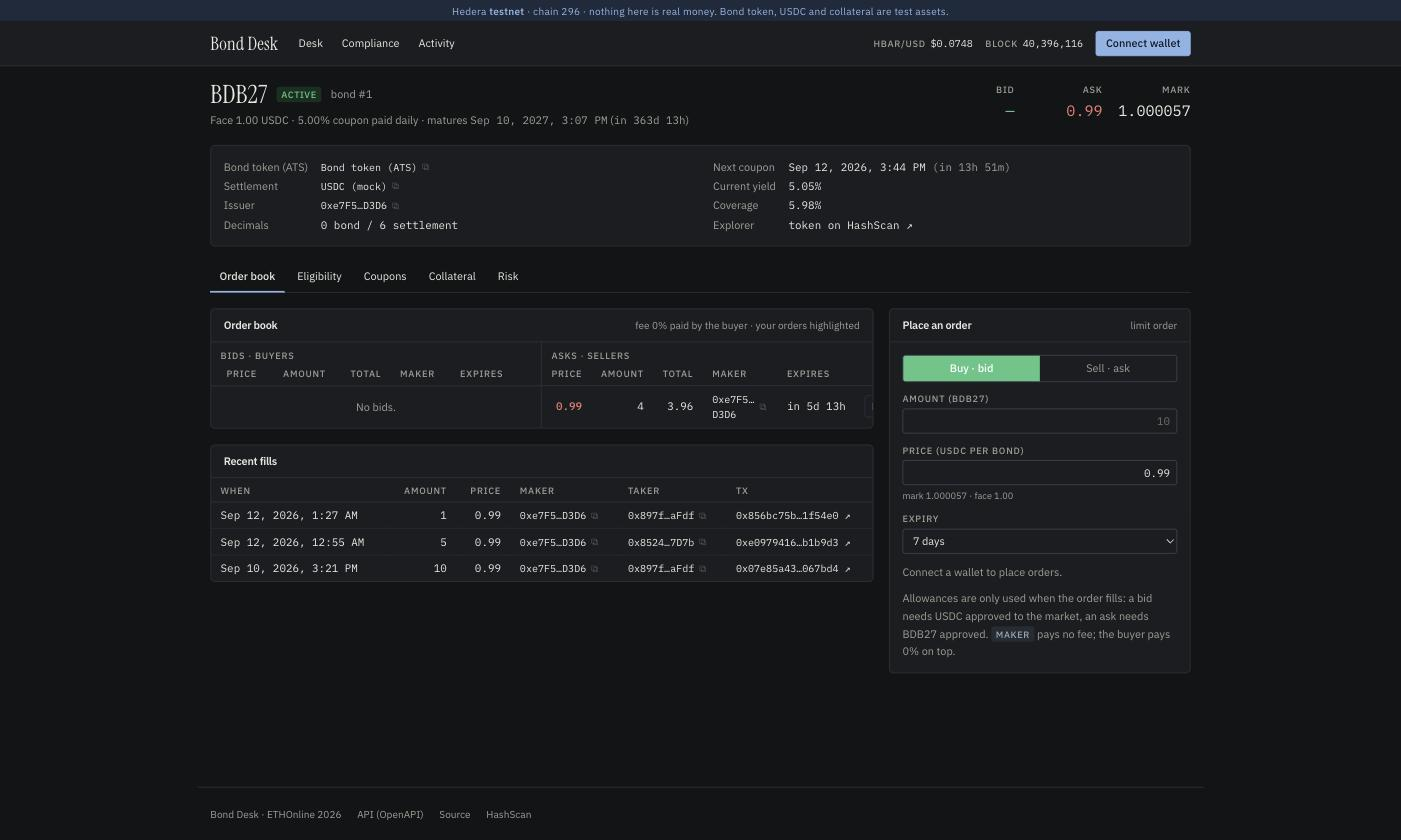
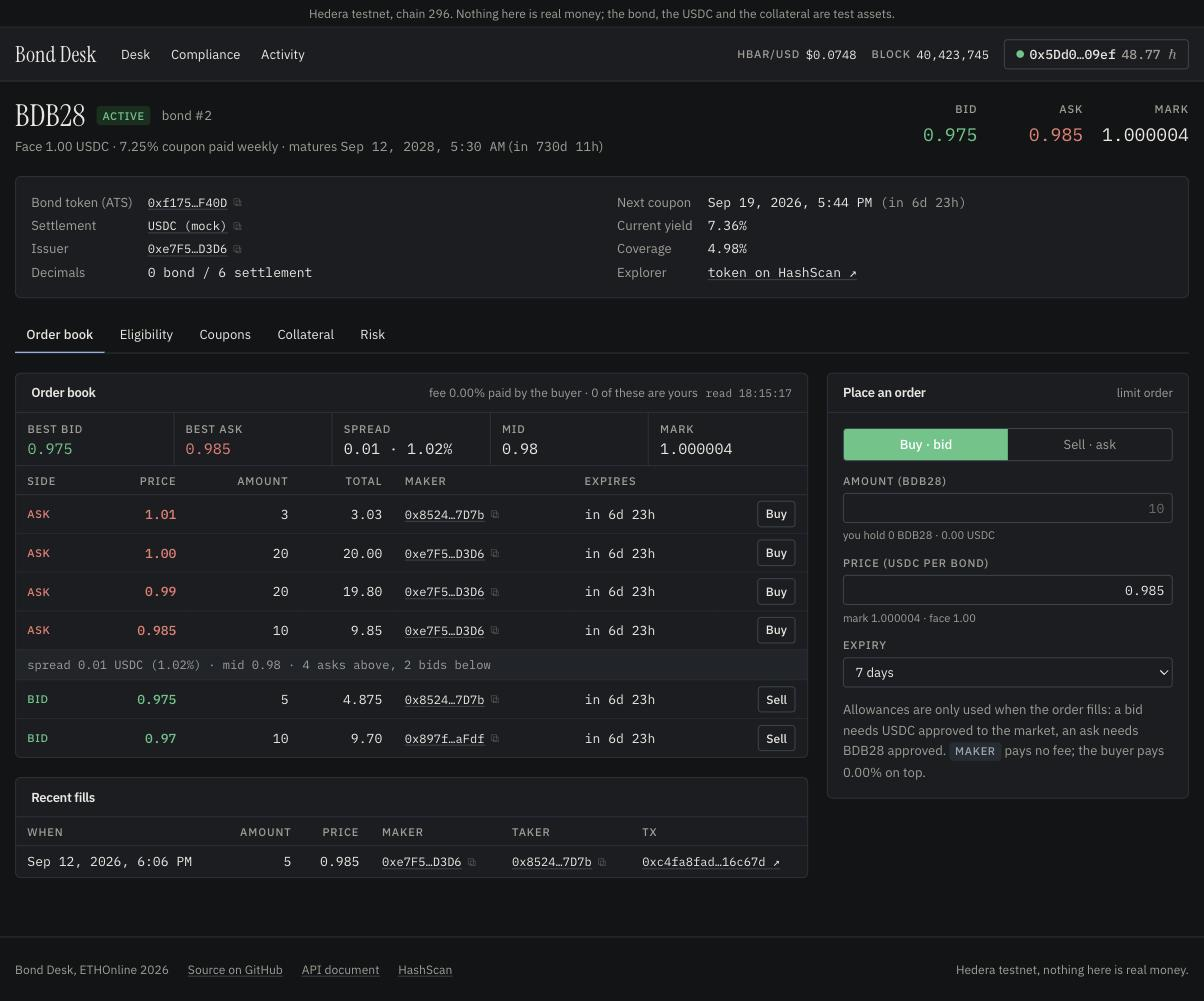
docs: screenshots of the redesigned app, demo script on three books
The front page, the desk with three bonds, bond 2's ladder with three makers
and bond 1's risk gate replace the two earlier captures. The demo script says
which ask to use now that order 1 has two bonds left, adds investor 2 to the
wallet list, and notes that the deployed monitor watches bond 1 only.

diff --git a/docs/DEMO.md b/docs/DEMO.md
@@ -30,13 +30,20 @@ Wallets: either MetaMask on Hedera testnet (chain 296, RPC `https://testnet.hash
 `https://hashscan.io/testnet`) with the keys below imported and named so the connector chip reads well on camera,
 or, simpler for a recording, the dev server with `?burners=1` (`cd web && npm run dev`, then
 `http://localhost:5173/?burners=1` with the API on `localhost:8787`): every demo key in `web/.env.local` appears as
-*Burner: investor 1 … relayer*, signs without a popup, and no installed wallet extension (Phantom in particular)
-can take the session over. The hosted URL is for the judges; the burner mode is for the take.
+*Burner: investor 1, investor 2, investor 3, issuer, officer, relayer*, signs without a popup, and no installed
+wallet extension (Phantom in particular) can take the session over. The hosted URL is for the judges; the burner
+mode is for the take.
+
+Three bonds are live on the desk (BDB27 daily 5%, BDB28 weekly 7.25%, BDB30 30-day 3.75%), each with its own
+book quoted by the issuer and investors 1 and 2 (`README.md` step 20). The script below stays on bond #1, which
+is the one the deployed enclave monitor watches; bonds 2 and 3 are there to show the desk as a desk, and their
+risk status only changes by hand or through the simulator with `bondId` overridden.
 
 | Name in MetaMask | Key | Used in |
 |---|---|---|
 | Issuer / admin | `HEDERA_PRIVATE_KEY` | segments 4, 5 |
 | Investor 1 (KYC) | `deployments/testnet.json .wallets.investorKyc1` | segments 3, 4, 5 |
+| Investor 2 (KYC) | `.wallets.investorKyc2` | quotes on all three books, not needed on camera |
 | Investor 3 (no KYC) | `.wallets.investorNoKyc` | segment 3 |
 | Officer | `COMPLIANCE_OFFICER_KEY` | segment 2 |
 | Relayer | `relayer/.env` | segment 5 |
@@ -64,8 +71,9 @@ terminal between segments.
 
 ## 1 · 0:00–0:15 · What this is
 
-**On screen:** the app's front page at `$API/` (the live strip and the two diagrams), then *Open the desk*. The
-flowchart in `docs/architecture.md` is the fallback if the API is slow.
+**On screen:** the app's front page at `$API/` (the live strip and the two diagrams), then *Open the desk*: three
+bonds, each with a bid, an ask, depth and coverage. The flowchart in `docs/architecture.md` is the fallback if the
+API is slow.
 
 **Say:** a corporate bond issued through Hedera's Asset Tokenization Studio; an order book that asks the token's
 own compliance check before every fill; coupons fired by Hedera's Schedule Service; and a Chainlink CRE enclave
@@ -99,15 +107,17 @@ its own freeze list and its own transfer rules; everything else in this demo has
 
 ## 3 · 0:45–1:25 · Compliance is enforced by the contract, not the UI
 
-**On screen:** the app, bond #1, **Order book** tab. The issuer's ask is open (order 1, 0.99 USDC).
+**On screen:** the app, bond #1, **Order book** tab. The ladder has three asks and two bids from three makers;
+use the issuer's 1.00 ask (10 bonds) for the fills below. Order 1 at 0.99 has 2 bonds left, so a *Buy* of 5 on
+that row is refused as `BadAmount` before it is sent, which is fine to show but not the beat.
 
-1. Connect **Investor 3 (no KYC)**. Click *Fill* for 5 bonds, confirm in MetaMask. The app decodes the revert
+1. Connect **Investor 3 (no KYC)**. Click *Buy* on the 1.00 ask, 5 bonds, confirm in MetaMask. The app decodes the revert
    before sending: `ComplianceRejected(0x10, InvalidKycStatus)`, the token's own answer to `canTransferFrom`.
    Nothing was sent; nothing moved.
 2. Stay on Investor 3, go to **Eligibility**. Click *Request testnet KYC*: MetaMask signs a one-line message
    (no gas), the API's officer bot grants KYC on the token, the tab shows the `grantKyc` hash and `canHold:
    true`.
-3. Back to **Order book**, *Fill* 5 again. Two MetaMask prompts (USDC approval, then the fill), the trade
+3. Back to **Order book**, *Buy* 5 again. Two MetaMask prompts (USDC approval, then the fill), the trade
    appears in the history with its HashScan link, the ask shrinks.
 
 **Say:** the rejection is `canTransferFrom` on the ATS token, called inside `fill`, before any transfer. The
@@ -164,8 +174,8 @@ The centrepiece. The coverage drop is real.
 3. Copy the `VERDICT_JSON` line. App, **Risk** tab, **Relayer** wallet: paste into *Relay a signed verdict*,
    the app verifies the signature against `RiskGate.signer()` and shows the recovered address, click *Relay*,
    confirm. The status badge flips to **Frozen**; the verdict history gains a row with the nonce.
-4. **Order book**, **Investor 1**: *Fill* 5. The app decodes `BondNotActive(1, Frozen)`. A KYC'd buyer, a valid
-   order, and the fill still fails.
+4. **Order book**, **Investor 1**: *Buy* 5 on the same ask. The app decodes `BondNotActive(1, Frozen)`. A
+   KYC'd buyer, a valid order, and the fill still fails. Bonds 2 and 3 keep trading: the freeze is per bond.
 5. **Risk** tab, **Issuer / admin** wallet: *Unfreeze*, confirm. Badge back to **Active**.
 
 **Say:** the relayer verified the signature locally before spending gas, and `RiskGate` checks the signature and
@@ -257,7 +267,8 @@ track requirements and the submission.
   After a transaction, talk for a beat before pointing at a table.
 - The Risk tab refuses a verdict whose nonce is not `lastNonce + 1`, so a verdict from a rehearsal cannot be
   replayed on the take. Re-run `sim:bond` for a fresh one, and relay it within the same hour: the deployed
-  bond-monitor fires at the top of every hour and takes the next nonce itself.
+  bond-monitor fires at the top of every hour and takes the next nonce itself. It watches bond 1 only
+  (`workflow/bond-monitor/config.production.json`); nonces are per bond, so bonds 2 and 3 start at nonce 1.
 - Never show `.env`, `workflow/.env`, `workflow/*/secrets.yaml`, `cre secrets` output, or a terminal with a
   private key in scrollback.
 - Every transaction shown should be linkable afterwards. The **Activity** page lists them newest first with

diff --git a/README.md b/README.md
@@ -348,9 +348,13 @@ is a page for a person and a document for a program.
 | Compliance | the officer's desk on whichever bond token it picks: KYC status and freeze state per address, grant, revoke, freeze, unfreeze, and what `canTransferFrom` would answer right now |
 | Activity | every decoded event across the six contracts and the token, newest first |
 
-![Bond #1, order book](docs/img/app-order-book.jpg)
+![The front page: the statement, the live strip and the first diagram](docs/img/app-landing.jpg)
 
-![Bond #1, risk gate with the verdict history and the relay box](docs/img/app-risk.jpg)
+![The desk: three bonds with bid, ask, depth, yield, coverage and the next coupon](docs/img/app-desk.jpg)
+
+![Bond #2, order book: four asks and two bids from three makers, the spread and the mid, the fill form](docs/img/app-order-book.jpg)
+
+![Bond #1, risk gate: the last verdict, the verdict history with nonces, and the relay box](docs/img/app-risk.jpg)
 
 Every write goes through one pipeline ([`web/src/hooks/useTx.ts`](web/src/hooks/useTx.ts)): simulate first, so a
 revert is decoded into a sentence (`ComplianceRejected(0x10, InvalidKycStatus)`, `BondNotActive(1, Frozen)`)
